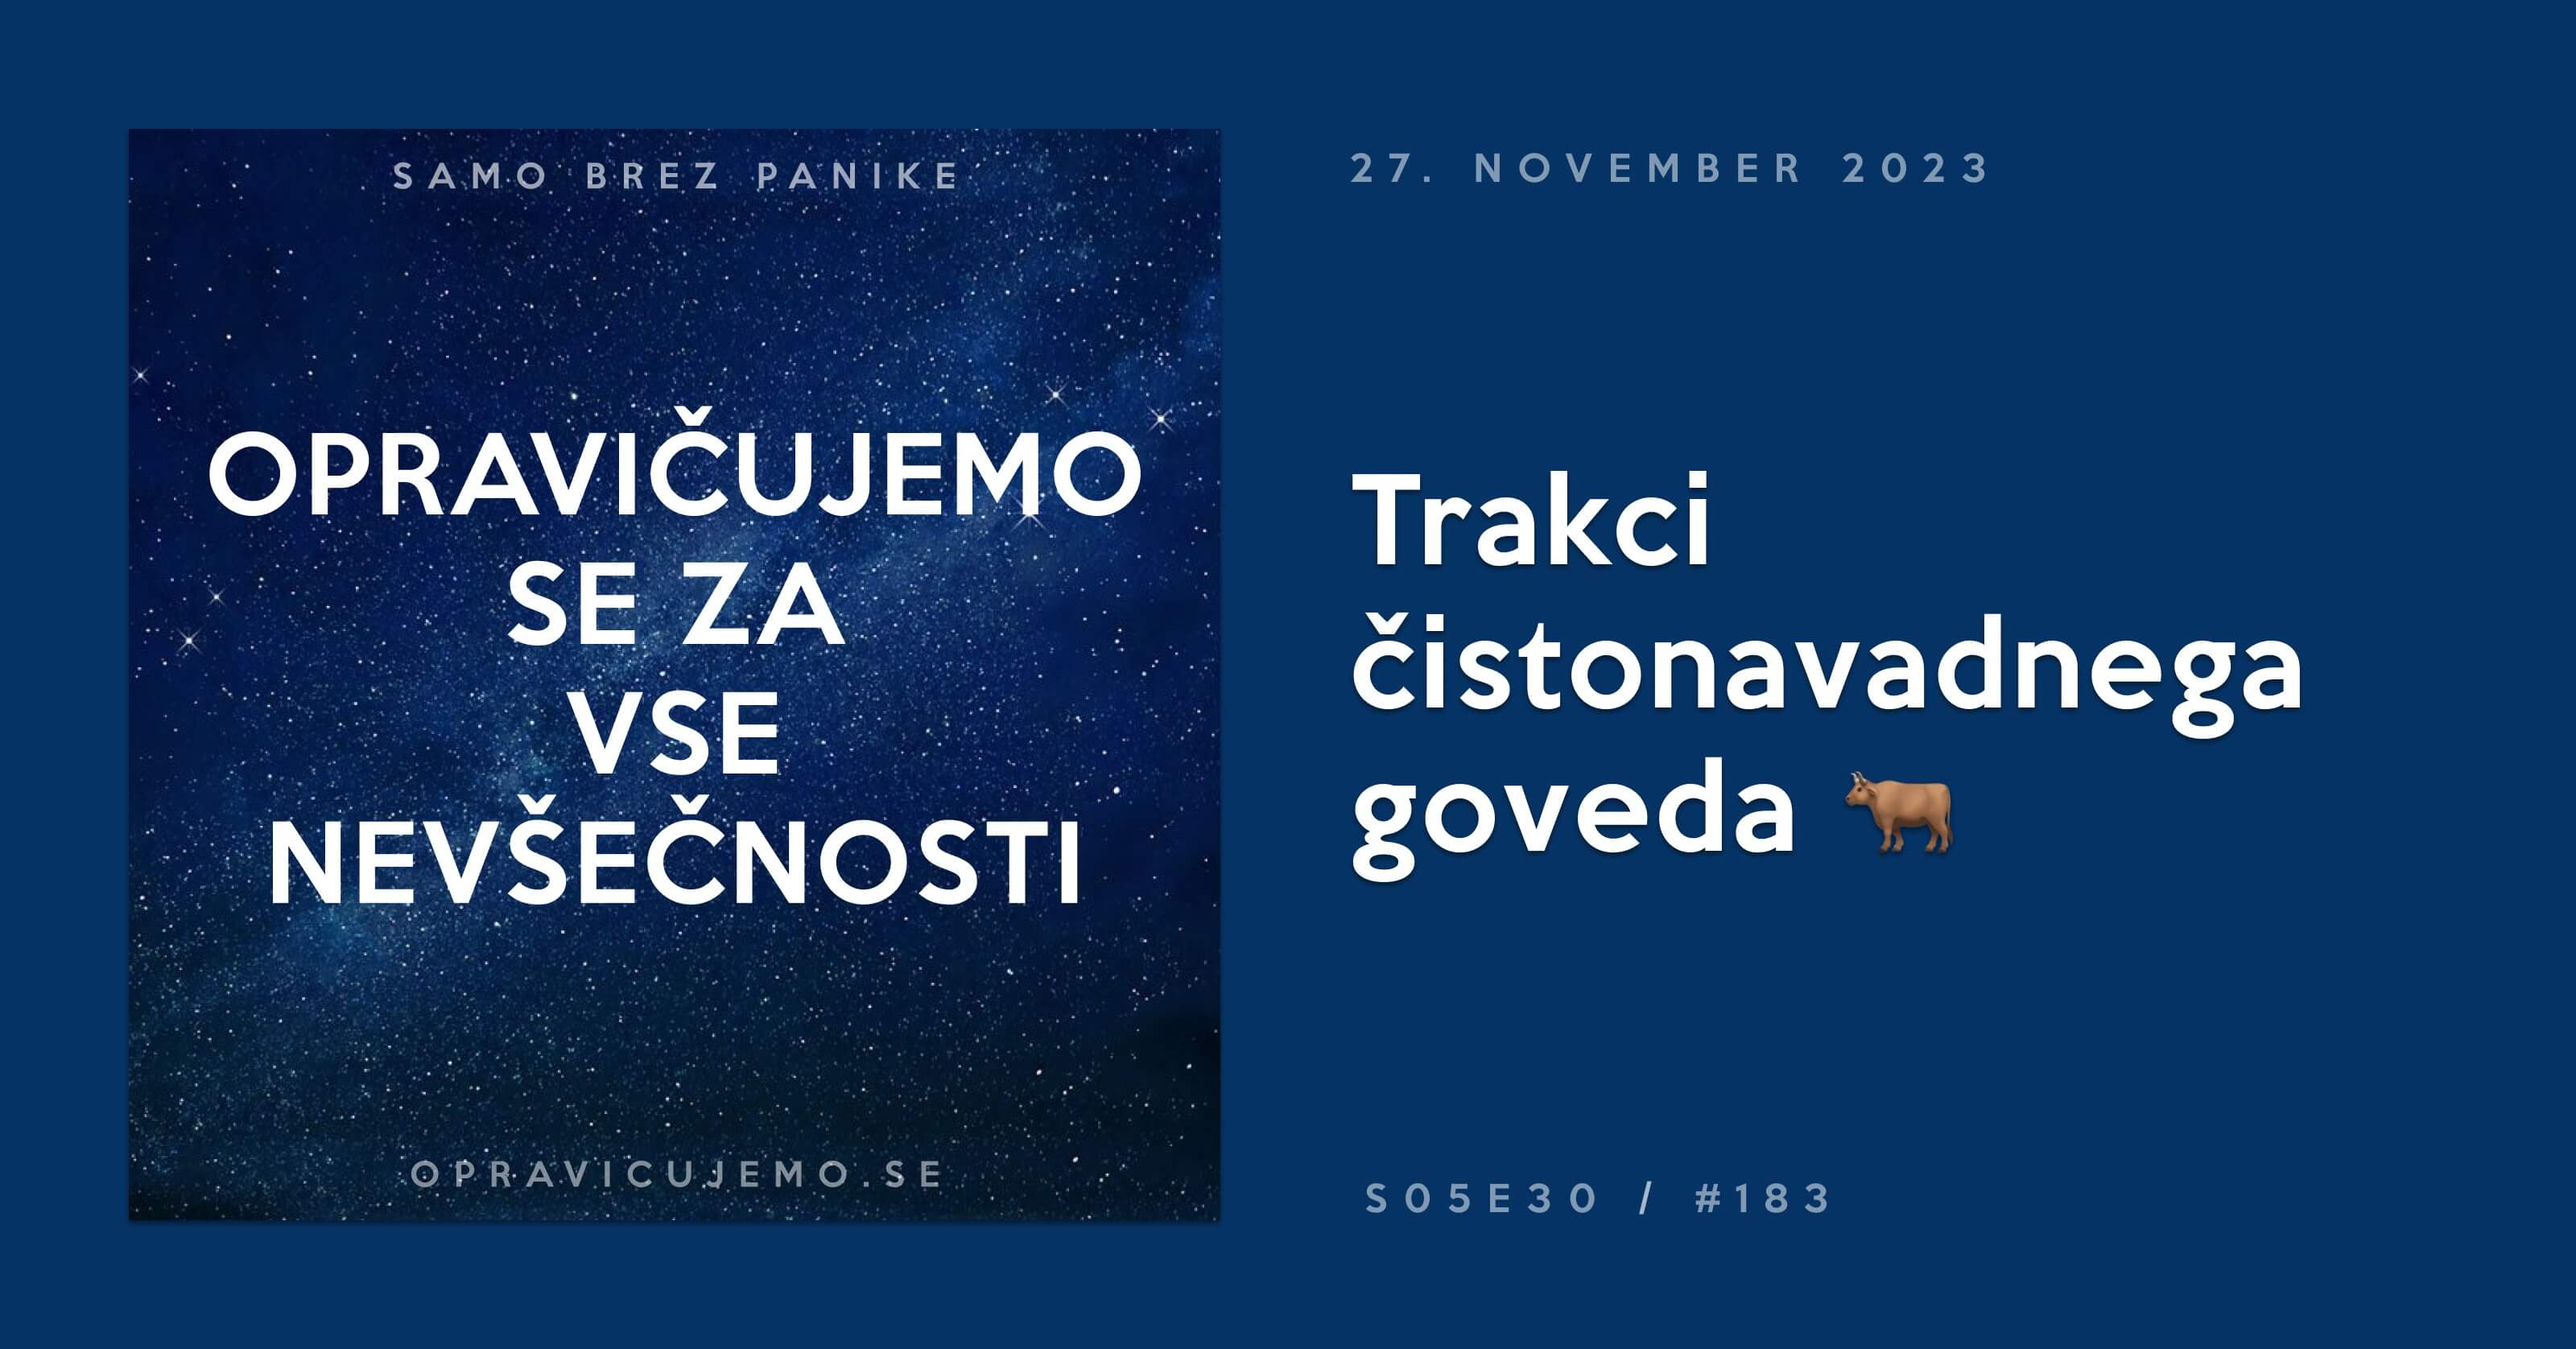
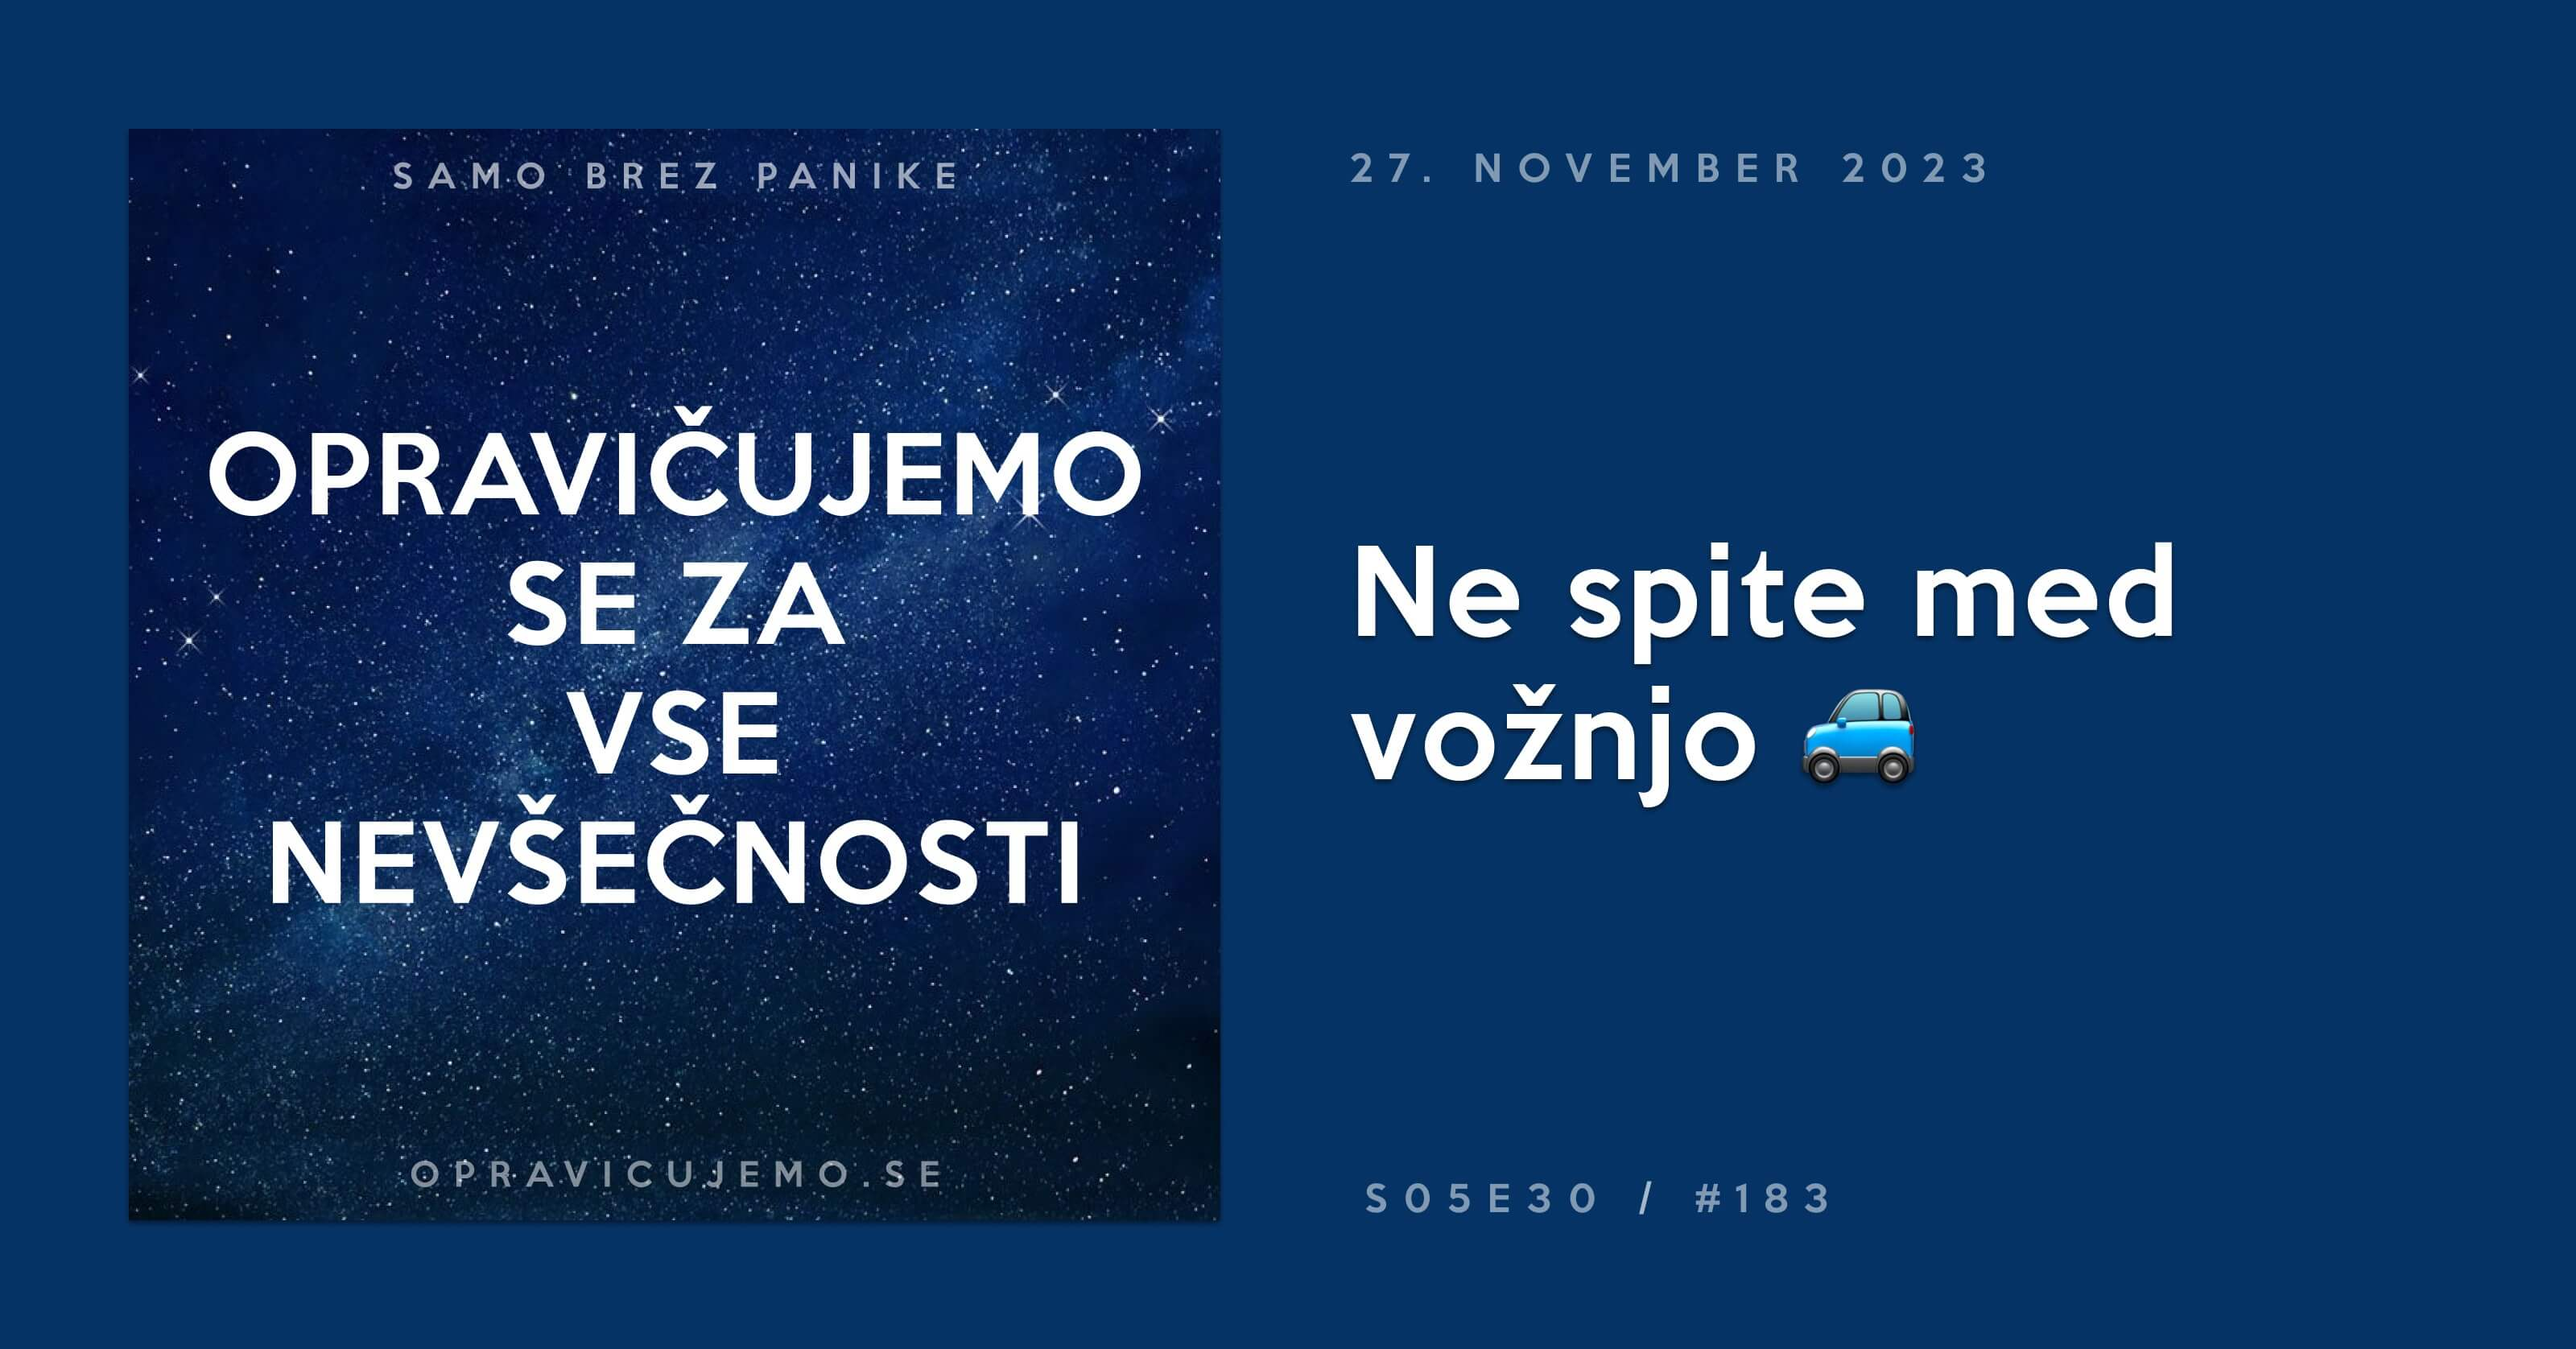
183 ... spremenjen naslov
Prvič. :)

Changed region(s): [[0.5, 0.3413, 0.9062, 0.6516]]

diff --git a/_posts/2023-11-27-183.md b/_posts/2023-11-27-183.md
@@ -1,6 +1,6 @@
 ---
 layout: 	post
-title:  	"Trakci čistonavadnega goveda 🐂"
+title:  	"Ne spite med vožnjo 🚙"
 number: 	"#183 aka S05E30"
 categories:	epizode
 permalink:	/183/
